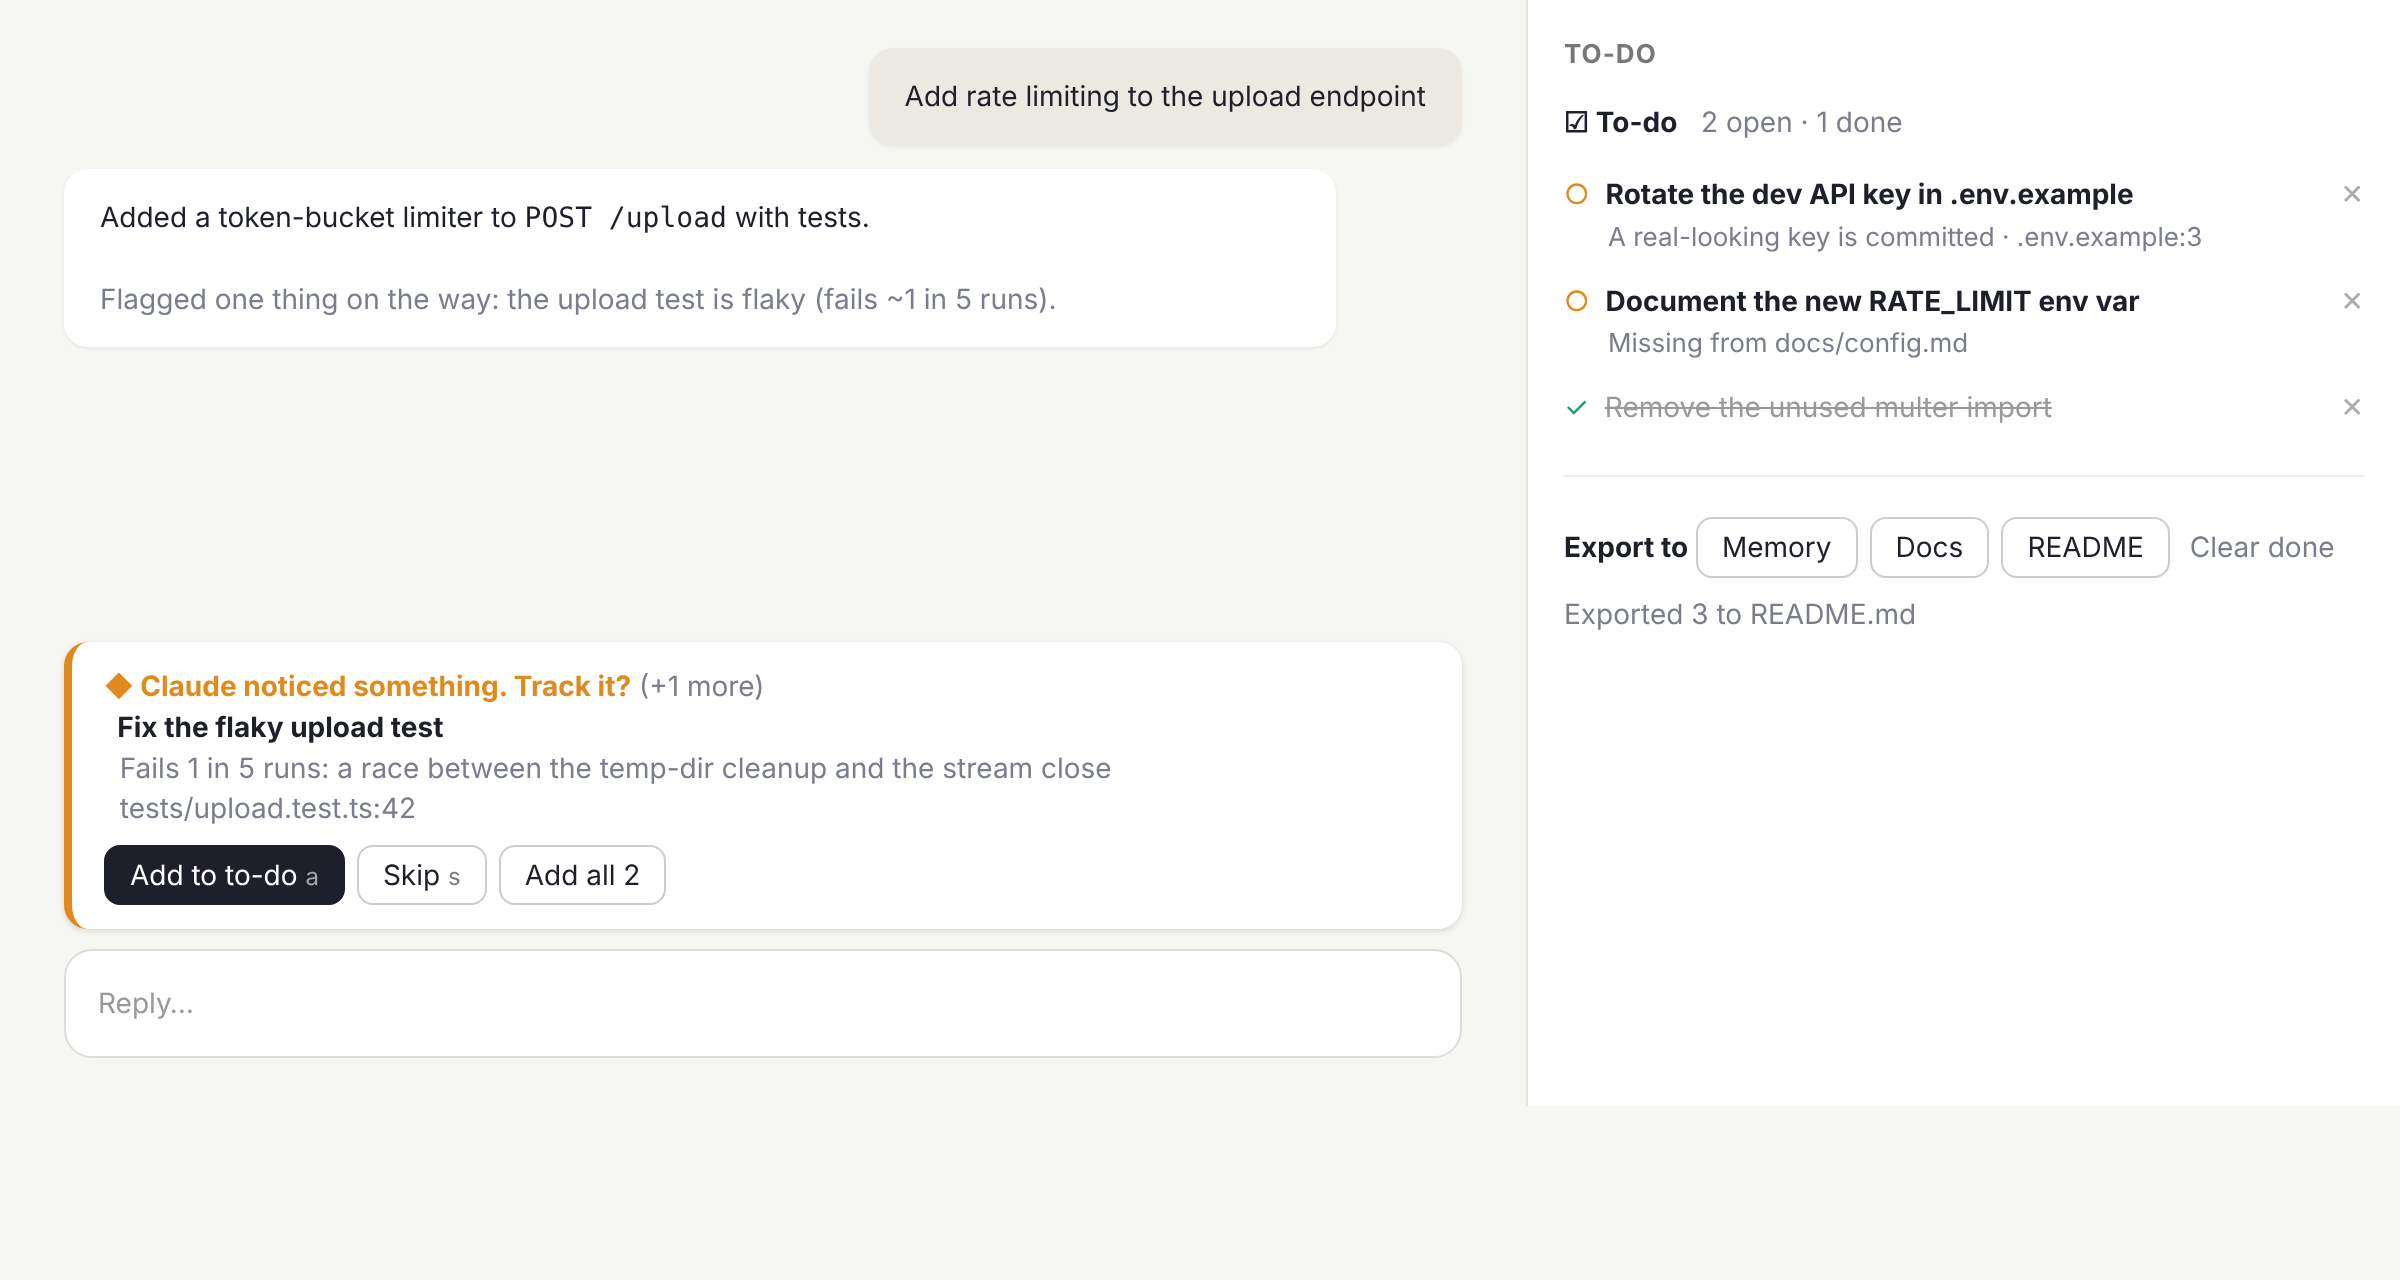
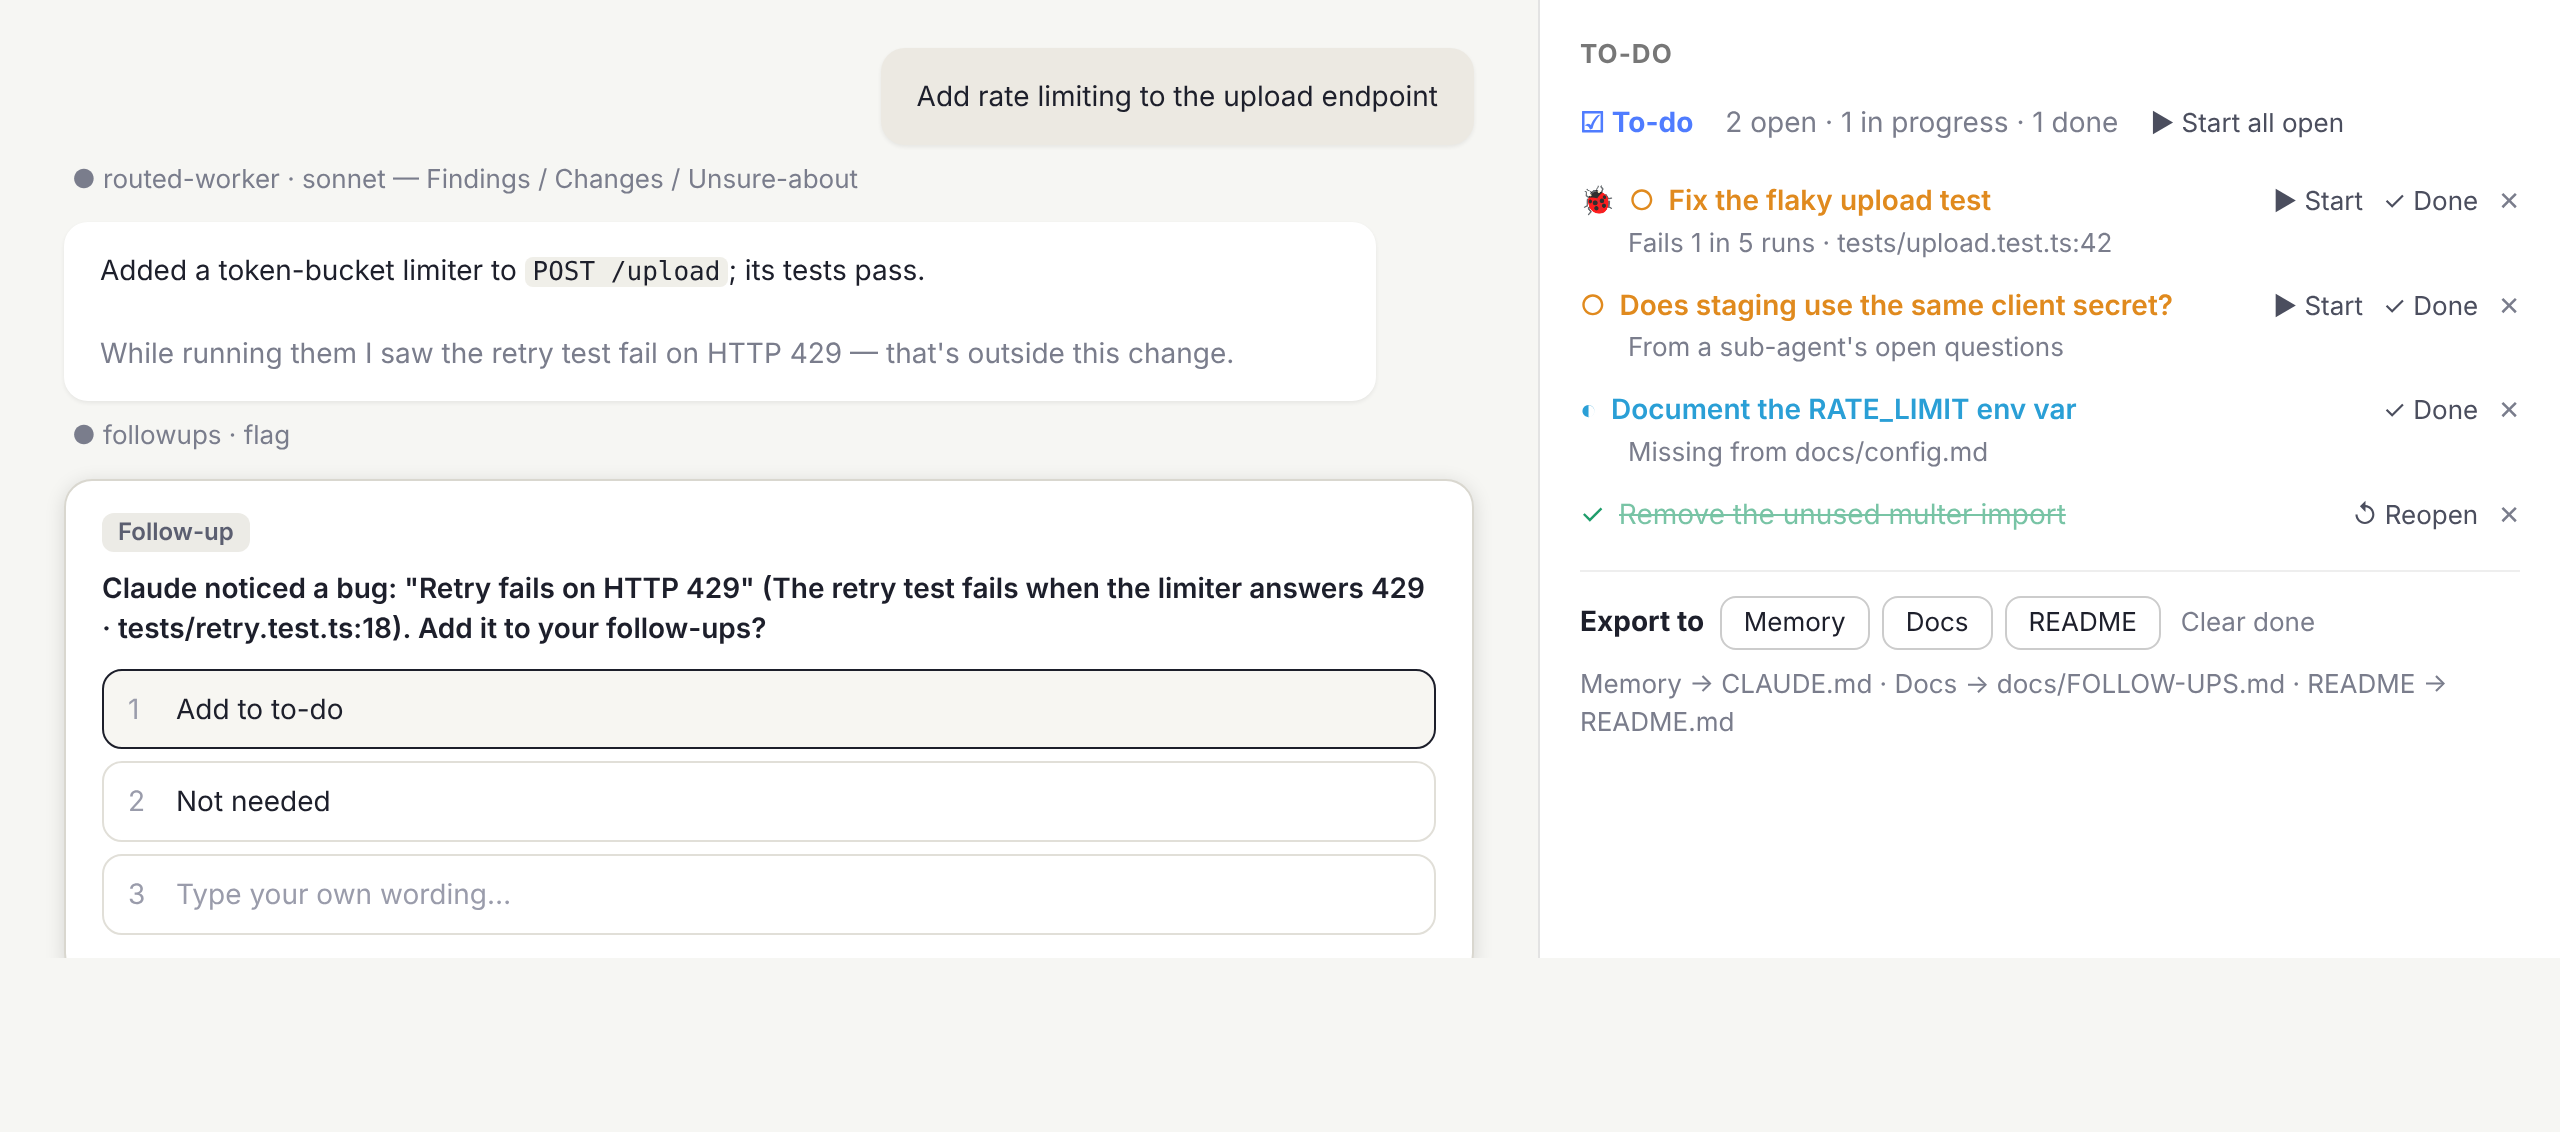
README: a new followups mock-up that matches 0.5.0
The old picture predated statuses, colors, Start/Done, the bug marker
and sub-agent open questions, and showed the fallback band rather than
the question dialog people actually see. The new mock-up shows the
dialog and the current pane; the caption says what it is and that the
dialog is Claude Code's own.

Claude-Session: https://claude.ai/code/session_01JhDtA2jSsNXc4mSZVHtjKT

diff --git a/README.md b/README.md
@@ -105,9 +105,9 @@ Tests: `claude plugin test plugins/task-hud`.
 
 ## followups: don't lose what Claude notices
 
-![followups: a flag waiting above the prompt and the To-do pane with Export to](assets/followups.png)
+![followups: Claude asks about a bug it noticed in the question dialog; the To-do pane shows open, in-progress and done items with Start, Done and Export to](assets/followups.png)
 
-<sub>A mock-up of the layout. While Claude is working, it asks in the question dialog; the band shown here holds a flag whose dialog was closed without an answer.</sub>
+<sub>A mock-up of version 0.5.0, not a screenshot. The dialog is Claude Code's own question dialog, so it looks like the one in your app rather than exactly like this. The pane follows the mod's drawing: orange open, blue in progress, green done, 🐞 for a bug, and an item offered from a sub-agent's open questions. A dialog closed without an answer leaves the item in a band above the prompt (Add to to-do / Skip / Add all), which isn't shown here.</sub>
 
 While Claude works, it often notices things outside the task: a flaky test, a stale doc, a bug in nearby code. Those get lost unless somebody writes them down. This mod writes them down.
 
